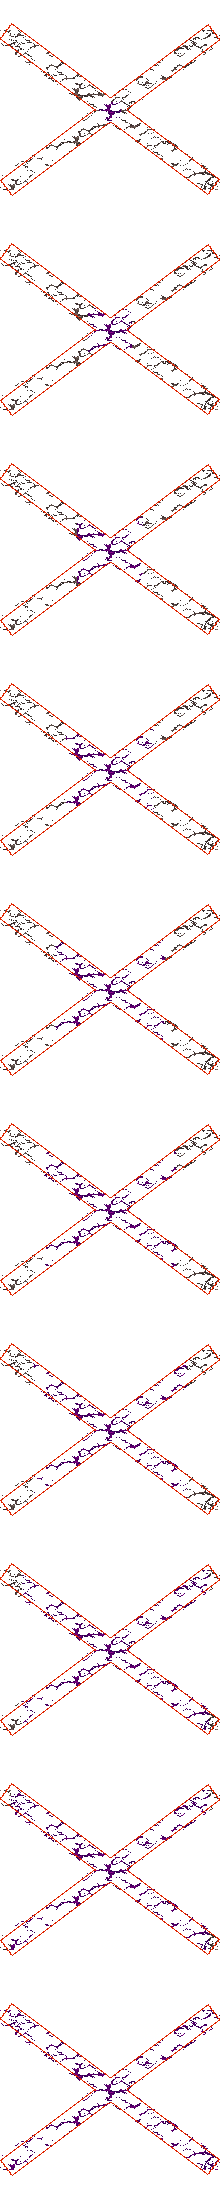
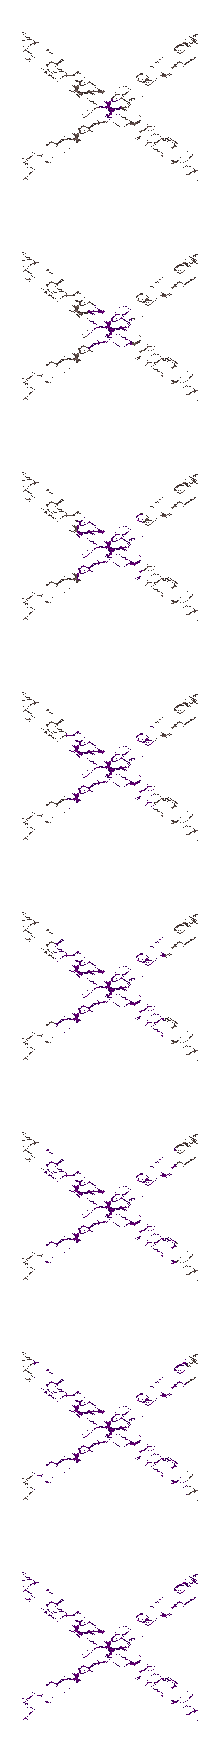
cross_correct

diff --git a/Project/Motor2D/M_Explosion.cpp b/Project/Motor2D/M_Explosion.cpp
@@ -673,7 +673,7 @@ void M_Explosion::AddExplosion(iPoint position, int radius, int damage, float de
 	{
 		toPush.sprite.texture = cross2;
 		toPush.sprite.section = { 0, 0, 220, 220 };
-		toPush.SetNFrames(10);
+		toPush.SetNFrames(8);
 		break;
 	}
 	}
